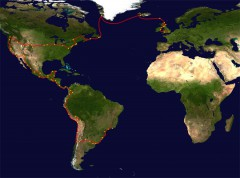
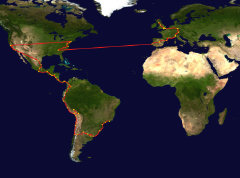
Bring graphics up-to-date

Changed region(s): [[0.0, 0.0, 1.0, 0.9551]]

diff --git a/assets/css/rich.css b/assets/css/rich.css
@@ -101,8 +101,14 @@ Sub-site Navigation
 	.splash_right_widget .widget_nav_menu > div {
 		display: none;
 	}
-	.splash_right_widget .widget_nav_menu.toggled > div {
+	.splash_right_widget .toggled .widget_nav_menu > div {
 		display: block;
+	}
+	.splash_right_widget .widget_nav_menu a {
+		font-size: 16px;
+		padding-top: 0.8em;
+		padding-bottom: 0.8em;
+		text-align: center;
 	}
 }
 
@@ -239,6 +245,14 @@ Page with One Column
 div.main_column *
 {
 	color: #ddd;
+}
+
+div.main_column .post p,
+div.main_column.post ul li,
+div.main_column .post ol li
+{
+    font-size: 1em;
+    line-height: 1.85;
 }
 
 div.main_column a.button

diff --git a/assets/css/screen.css b/assets/css/screen.css
@@ -3382,6 +3382,7 @@ RESPONSIVENESS
 		width: 320px;
 		padding-right: 10px;
 		padding-left: 20px;
+		clear: left;
 	}
 
 	#site_banner_inner
@@ -3830,8 +3831,8 @@ RESPONSIVENESS
 	#cols div.post.ball_teaser.ball_teaser_row_start
 	{
 		width: 360px;
-		padding: 20px 0;
-		margin: 0 auto;
+		padding: 0;
+		margin: 20px auto;
 		float: none;
 	}
 

diff --git a/sidebar.php b/sidebar.php
@@ -19,14 +19,44 @@ NOTES
 
 		/*
 		--------------------------------------------------------------------------------
-		2014 Teaser
+		2018 Teaser
 		--------------------------------------------------------------------------------
 		*/
 
 		?><div class="post ball_teaser ball_teaser_row_start">
 
 			<div class="route_map">
-				<a href="/2014/"><img src="<?php echo get_template_directory_uri(); ?>/assets/images/interface/2014_route-320x237.jpg" alt="<?php esc_attr_e( 'The 2014 route', 'theball' ); ?>" title="<?php esc_attr_e( 'The 2014 route', 'theball' ); ?>" width="320" height="237" class="alignnone size-thumbnail" /></a>
+				<a href="/2018/"><img src="<?php echo get_template_directory_uri(); ?>/assets/images/interface/2018_route-320x238.jpg" alt="<?php esc_attr_e( 'The 2018 route', 'theball' ); ?>" title="<?php esc_attr_e( 'The 2018 route', 'theball' ); ?>" width="320" height="238" class="alignnone size-thumbnail" /></a>
+				<div class="route_map_text">
+					<h2><a href="/2018/" style="text-shadow: none"><?php _e( 'The Ball 2018', 'theball' ); ?></a></h2>
+				</div>
+			</div>
+
+			<div class="ball_teaser_text">
+				<p><?php printf(
+					__( '%s left England on 25th March 2018 and travelled to the World Cup in Russia.', 'theball' ),
+					'<em>' . __( 'The Ball 2018', 'theball' ) . '</em>'
+				); ?></p>
+				<ul class="actionlist">
+					<li><a href="/2018/"><?php _e( 'More about 2018...', 'theball' ); ?></a></li>
+					<li><a href="/2018/blog/"><?php _e( 'Go to the 2018 blog', 'theball' ); ?></a></a></li>
+				</ul>
+			</div>
+
+		</div><!-- /post ball_teaser -->
+
+		<?php
+
+		/*
+		--------------------------------------------------------------------------------
+		2014 Teaser
+		--------------------------------------------------------------------------------
+		*/
+
+		?><div class="post ball_teaser">
+
+			<div class="route_map">
+				<a href="/2014/"><img src="<?php echo get_template_directory_uri(); ?>/assets/images/interface/2014_route-320x238.jpg" alt="<?php esc_attr_e( 'The 2014 route', 'theball' ); ?>" title="<?php esc_attr_e( 'The 2014 route', 'theball' ); ?>" width="320" height="238" class="alignnone size-thumbnail" /></a>
 				<div class="route_map_text">
 					<h2><a href="/2014/" style="text-shadow: none"><?php _e( 'The Ball 2014', 'theball' ); ?></a></h2>
 				</div>
@@ -34,7 +64,7 @@ NOTES
 
 			<div class="ball_teaser_text">
 				<p><?php printf(
-					__( '%s left England on 9th Jan 2014 and headed to the World Cup in Sao Paulo, Brazil.', 'theball' ),
+					__( '%s kicked off from England on 9th Jan 2014 and headed to the World Cup in Brazil.', 'theball' ),
 					'<em>' . __( 'The Ball 2014', 'theball' ) . '</em>'
 				); ?></p>
 				<ul class="actionlist">
@@ -53,7 +83,7 @@ NOTES
 		--------------------------------------------------------------------------------
 		*/
 
-		?><div class="post ball_teaser">
+		?><div class="post ball_teaser ball_teaser_row_start">
 
 			<div class="route_map">
 				<a href="/2010/"><img src="<?php echo get_template_directory_uri(); ?>/assets/images/interface/2010_route-320x238.jpg" alt="<?php esc_attr_e( 'The 2010 route', 'theball' ); ?>" title="<?php esc_attr_e( 'The 2010 route', 'theball' ); ?>" width="320" height="238" class="alignnone size-thumbnail" /></a>
@@ -84,7 +114,7 @@ NOTES
 		--------------------------------------------------------------------------------
 		*/
 
-		?><div class="post ball_teaser ball_teaser_row_start">
+		?><div class="post ball_teaser">
 
 			<div class="route_map">
 				<a href="/2006/"><img src="<?php echo get_template_directory_uri(); ?>/assets/images/interface/2006_route-320x240.jpg" alt="<?php esc_attr_e( 'The 2006 route', 'theball' ); ?>" title="<?php esc_attr_e( 'The 2006 route', 'theball' ); ?>" width="320" height="240" class="alignnone size-thumbnail" /></a>
@@ -115,7 +145,7 @@ NOTES
 		--------------------------------------------------------------------------------
 		*/
 
-		?><div class="post ball_teaser ball_teaser_2002">
+		?><div class="post ball_teaser ball_teaser_row_start ball_teaser_2002">
 
 			<div class="route_map">
 				<a href="/2002/"><img src="<?php echo get_template_directory_uri(); ?>/assets/images/interface/2002_route-320x240.jpg" alt="<?php esc_attr_e( 'The 2002 route', 'theball' ); ?>" title="<?php esc_attr_e( 'The 2002 route', 'theball' ); ?>" width="320" height="240" class="alignnone size-thumbnail" /></a>

diff --git a/page-rich-one-col.php b/page-rich-one-col.php
@@ -102,7 +102,9 @@ get_header(); ?><!-- page-rich-one-col.php -->
 					</div>
 
 					<div class="splash_right_widget">
-						<?php dynamic_sidebar( 'sof-top-right-page' ); ?>
+						<div id="splash_right">
+							<?php dynamic_sidebar( 'sof-top-right-page' ); ?>
+						</div>
 					</div>
 
 				</div><!-- /site_banner_inner -->

diff --git a/page-rich-two-cols.php b/page-rich-two-cols.php
@@ -86,7 +86,9 @@ get_header(); ?><!-- page-rich-two-cols.php -->
 					</div>
 
 					<div class="splash_right_widget">
-						<?php dynamic_sidebar( 'sof-top-right-page' ); ?>
+						<div id="splash_right">
+							<?php dynamic_sidebar( 'sof-top-right-page' ); ?>
+						</div>
 					</div>
 
 				</div><!-- /site_banner_inner -->

diff --git a/page_subpages_splash.php b/page_subpages_splash.php
@@ -93,7 +93,7 @@ get_header();
 
 				wp_link_pages( $defaults ); ?>
 
-				<?php edit_post_link( __( 'Edit this entry' ), '<p>', '</p>' ); ?>
+				<?php edit_post_link( __( 'Edit this entry' ), '', '' ); ?>
 
 			</div><!-- /post -->
 
